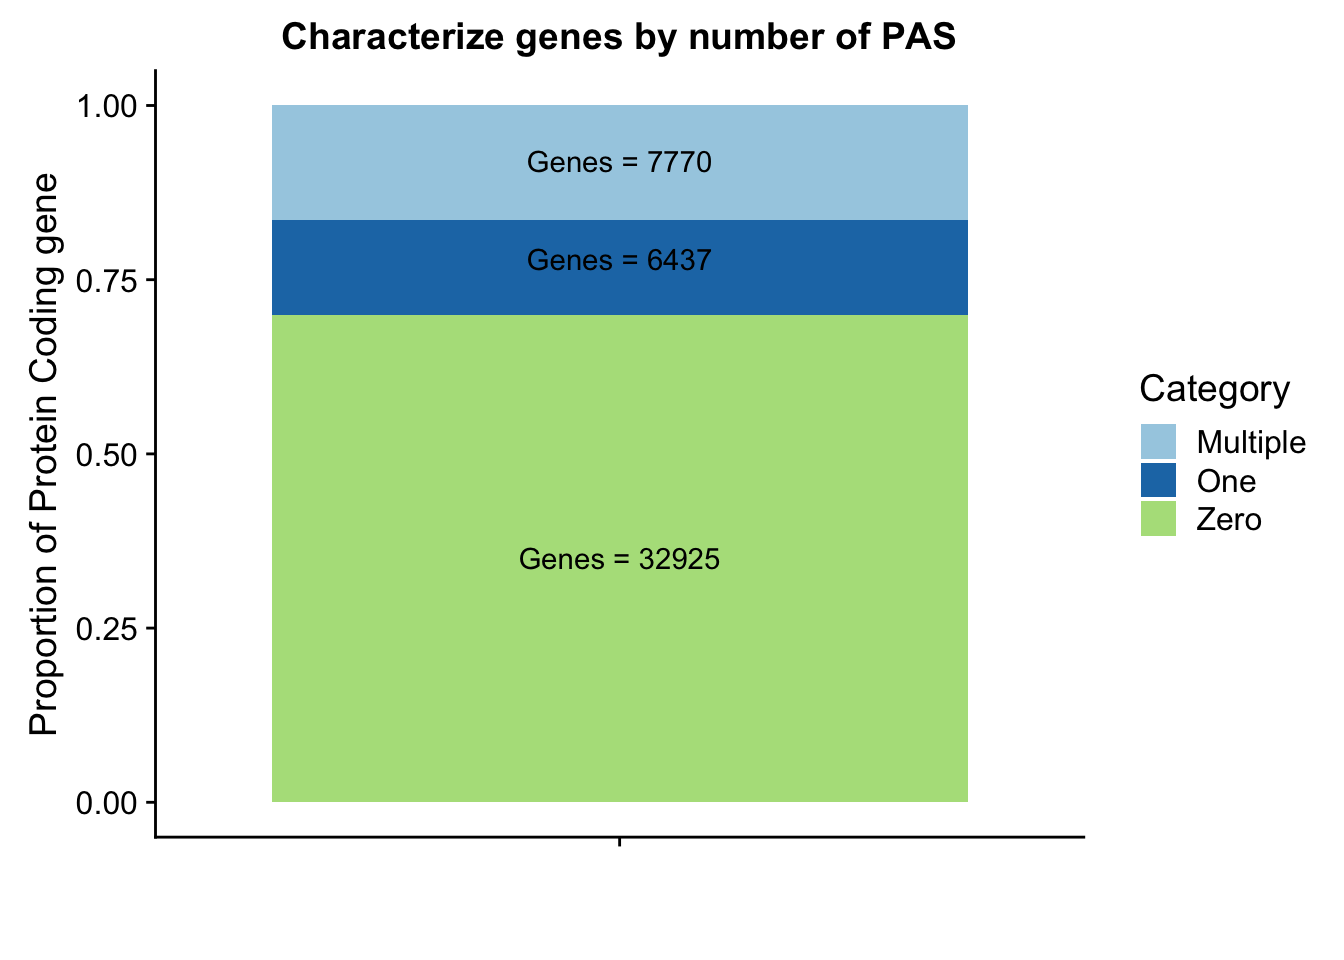
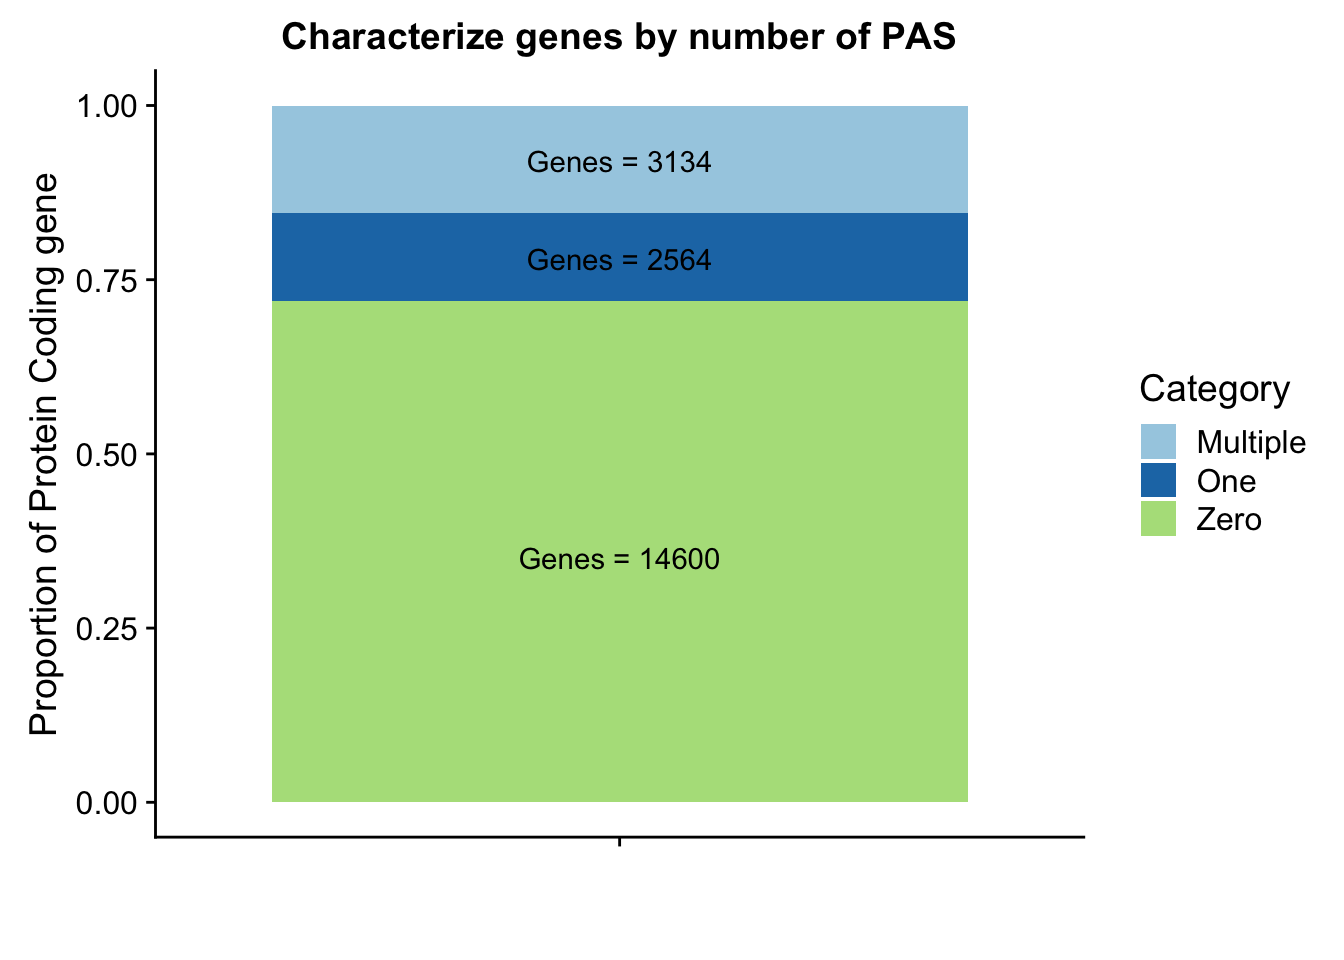
Build site.

diff --git a/docs/dataprocfigures.html b/docs/dataprocfigures.html
@@ -322,7 +322,7 @@ div.section {
 </div>
 
 
-<p><strong>Last updated:</strong> 2018-08-28</p>
+<p><strong>Last updated:</strong> 2018-08-29</p>
 <strong>workflowr checks:</strong> <small>(Click a bullet for more information)</small>
 <ul>
 <li>
@@ -346,7 +346,7 @@ div.section {
 </details>
 </li>
 <li>
-<p><details> <summary> <strong style="color:blue;">✔</strong> <strong>Repository version:</strong> <a href="https://github.com/brimittleman/threeprimeseq/tree/fa818a13d8591ac31fd9f6c63a86af3af565def7" target="_blank">fa818a1</a> </summary></p>
+<p><details> <summary> <strong style="color:blue;">✔</strong> <strong>Repository version:</strong> <a href="https://github.com/brimittleman/threeprimeseq/tree/6b818cbdefc857eb57e9a522483fa63b60b7fb60" target="_blank">6b818cb</a> </summary></p>
 Great! You are using Git for version control. Tracking code development and connecting the code version to the results is critical for reproducibility. The version displayed above was the version of the Git repository at the time these results were generated. <br><br> Note that you need to be careful to ensure that all relevant files for the analysis have been committed to Git prior to generating the results (you can use <code>wflow_publish</code> or <code>wflow_git_commit</code>). workflowr only checks the R Markdown file, but you know if there are other scripts or data files that it depends on. Below is the status of the Git repository when the results were generated:
 <pre><code>
 Ignored files:
@@ -439,6 +439,40 @@ Message
 Rmd
 </td>
 <td style="text-align:left;">
+<a href="https://github.com/brimittleman/threeprimeseq/blob/6b818cbdefc857eb57e9a522483fa63b60b7fb60/analysis/dataprocfigures.Rmd" target="_blank">6b818cb</a>
+</td>
+<td style="text-align:left;">
+Briana Mittleman
+</td>
+<td style="text-align:left;">
+2018-08-29
+</td>
+<td style="text-align:left;">
+try gencode anno
+</td>
+</tr>
+<tr>
+<td style="text-align:left;">
+html
+</td>
+<td style="text-align:left;">
+<a href="https://cdn.rawgit.com/brimittleman/threeprimeseq/c6dc97bf8c0353ab9179b44a1f9ed8210f4c0adb/docs/dataprocfigures.html" target="_blank">c6dc97b</a>
+</td>
+<td style="text-align:left;">
+brimittleman
+</td>
+<td style="text-align:left;">
+2018-08-28
+</td>
+<td style="text-align:left;">
+Build site.
+</td>
+</tr>
+<tr>
+<td style="text-align:left;">
+Rmd
+</td>
+<td style="text-align:left;">
 <a href="https://github.com/brimittleman/threeprimeseq/blob/fa818a13d8591ac31fd9f6c63a86af3af565def7/analysis/dataprocfigures.Rmd" target="_blank">fa818a1</a>
 </td>
 <td style="text-align:left;">
@@ -473,7 +507,7 @@ first processing figure
 
 
 
-bedtools map -c 4 -s -o count_distinct -a /project2/gilad/briana/genome_anotation_data/ncbiRefSeq_sm_noChr.sort.mRNA.bed -b   &gt; /project2/gilad/briana/threeprimeseq/data/peakPerRefseqGene/filtered_APApeaks_perRefseqGene.txt 
+bedtools map -c 4 -s -o count_distinct -a /project2/gilad/briana/genome_anotation_data/refseq.ProteinCoding.fullchroms.bed -b /project2/gilad/briana/threeprimeseq/data/mergedPeaks_comb/filtered_APApeaks_merged_allchrom.named.fixed.bed  &gt; /project2/gilad/briana/threeprimeseq/data/peakPerRefseqGene/filtered_APApeaks_perRefseqGene.txt 
 </code></pre>
 <pre class="r"><code>library(tidyverse)</code></pre>
 <pre><code>── Attaching packages ──────────────────────────────────────────────────────────────────── tidyverse 1.2.1 ──</code></pre>
@@ -516,6 +550,121 @@ lab3=paste(&quot;Genes =&quot;, sum(peakpergene$multPeaks), sep=&quot; &quot;)
 genepeakplot=ggplot(perPeakdf, aes(x=&quot;&quot;, y=perPeak, fill=Category)) + geom_bar(stat=&quot;identity&quot;)+ labs(title=&quot;Characterize genes by number of PAS&quot;, y=&quot;Proportion of Protein Coding gene&quot;, x=&quot;&quot;)+ scale_fill_brewer(palette=&quot;Paired&quot;) + coord_cartesian(ylim=c(0,1)) + annotate(&quot;text&quot;, x=&quot;&quot;, y= .35, label=lab1) + annotate(&quot;text&quot;, x=&quot;&quot;, y= .78, label=lab2) + annotate(&quot;text&quot;, x=&quot;&quot;, y= .92, label=lab3)
 genepeakplot</code></pre>
 <p><img src="figure/dataprocfigures.Rmd/unnamed-chunk-5-1.png" width="672" style="display: block; margin: auto;" /></p>
+<details> <summary><em>Expand here to see past versions of unnamed-chunk-5-1.png:</em></summary>
+<table style="border-collapse:separate; border-spacing:5px;">
+<thead>
+<tr>
+<th style="text-align:left;">
+Version
+</th>
+<th style="text-align:left;">
+Author
+</th>
+<th style="text-align:left;">
+Date
+</th>
+</tr>
+</thead>
+<tbody>
+<tr>
+<td style="text-align:left;">
+<a href="https://github.com/brimittleman/threeprimeseq/blob/c6dc97bf8c0353ab9179b44a1f9ed8210f4c0adb/docs/figure/dataprocfigures.Rmd/unnamed-chunk-5-1.png" target="_blank">c6dc97b</a>
+</td>
+<td style="text-align:left;">
+brimittleman
+</td>
+<td style="text-align:left;">
+2018-08-28
+</td>
+</tr>
+</tbody>
+</table>
+<p></details></p>
+<p>This includes for than 1 isoform for different genes. I am going to go back to the original refseq file and resegment it. Column 13 is the gene name. Column 2 needs to start with NM because that is mRNA.</p>
+<pre class="bash"><code>grep  &quot;NM&quot; ncbiRefSeq.txt | awk &#39;{print $3 &quot;\t&quot; $5 &quot;\t&quot; $6 &quot;\t&quot; $2 &quot;\t&quot; $13 &quot;\t&quot; $4}&#39; &gt; ncbiRefSeq.mRNA.named.bed</code></pre>
+<p>I can write a script that writes only the longest isoform for each gene.</p>
+<pre class="bash"><code>
+outfile=open(&quot;refseq.ProteinCoding.bed&quot;, &quot;w&quot;)
+
+
+
+
+infile=open(&quot;ncbiRefSeq.mRNA.named.bed&quot;, &quot;r&quot;)
+
+lines=infile.readlines()
+lot_lines=len(lines)
+for n,ln in enumerate(lines):
+    chrom, start, end, mRNA, gene, strand = ln.split()
+    #if first line
+    if n == 0:
+        #first line condition
+        SE_list=[]
+        cur_gene=gene
+        SE_list.append(int(start))   
+        SE_list.append(int(end)) 
+    elif n == lot_lines-1:
+        #last line condition
+        if gene == cur_gene:
+            SE_list.append(int(start))   
+            SE_list.append(int(end))
+            SE_list.sort()
+            outfile.write(&quot;%s\t%d\t%d\t%s\t.\t%s\n&quot;%(chrom, SE_list[0], SE_list[-1], gene, strand))
+        else: 
+           outfile.write(&quot;%s\t%d\t%d\t%s\t.\t%s\n&quot;%(chrom, int(start), int(end), gene, strand))
+    elif gene == cur_gene:
+        SE_list.append(int(start))   
+        SE_list.append(int(end))
+    elif gene != cur_gene:
+        #write out the last line but with the start end from the SE list
+        prevline=lines[n-1]
+        chrom2, start2, end2, mRNA2, gene2, strand2 = prevline.split()
+        outfile.write(&quot;%s\t%d\t%d\t%s\t.\t%s\n&quot;%(chrom2, SE_list[0], SE_list[-1], gene2, strand2))
+        cur_gene=gene
+        SE_list=[int(start), int(end)]
+
+
+outfile.close()
+</code></pre>
+<p>I can check this by maknig sure there is 1 line for all of the unique names in the in file.</p>
+<pre class="bash"><code>awk &#39;{print $5}&#39; ncbiRefSeq.mRNA.named.bed | sort | uniq | wc -l
+#19243
+wc -l refseq.ProteinCoding.bed 
+#20298
+sed &#39;s/^chr//&#39; refseq.ProteinCoding.bed &gt; refseq.ProteinCoding.noCHR.bed</code></pre>
+<p>There is still a problem with the script. The problem is when the same gene name is on extra haplotypes. I could remove all of the lines in the file that have _ in the first column. These are on contigs or specfic haplotypes. They will not map to our peaks anyway. I also need to remove the chr.</p>
+<p>This still seems lower than previos APA estimates. I had used gencode estimates before. I am gonig to run this analysis again with those gene.</p>
+<pre class="bash"><code>#!/bin/bash
+
+#SBATCH --job-name=gencode_countdistinct
+#SBATCH --account=pi-yangili1
+#SBATCH --time=24:00:00
+#SBATCH --output=gencode_countdistinct.out
+#SBATCH --error=gencode_countdistinct.err
+#SBATCH --partition=broadwl
+#SBATCH --mem=12G
+#SBATCH --mail-type=END
+
+
+
+bedtools map -c 4 -s -o count_distinct -a /project2/gilad/briana/genome_anotation_data/gencode.v19.annotation.proteincodinggene.sort.bed   -b /project2/gilad/briana/threeprimeseq/data/mergedPeaks_comb/filtered_APApeaks_merged_allchrom.named.fixed.bed  &gt;
+</code></pre>
+<pre class="r"><code>Gpeakpergene=read.table(&quot;../data/peakPerRefSeqGene/filtered_APApeaks_perGencodeGene.txt&quot;, stringsAsFactors = F, header = F, col.names = names) %&gt;% mutate(onePeak=ifelse(numPeaks==1, 1, 0 )) %&gt;%  mutate(multPeaks=ifelse(numPeaks &gt; 1, 1, 0 ))</code></pre>
+<pre class="r"><code>Ggenes1peak=sum(Gpeakpergene$onePeak)/nrow(Gpeakpergene) 
+GgenesMultpeak=sum(Gpeakpergene$multPeaks)/nrow(Gpeakpergene)
+Ggenes0peak= 1- Ggenes1peak - GgenesMultpeak
+
+GperPeak= c(round(Ggenes0peak,digits = 3), round(Ggenes1peak,digits = 3),round(GgenesMultpeak, digits = 3))
+
+GperPeakdf=as.data.frame(cbind(Category,as.numeric(GperPeak)))</code></pre>
+<p>Plot these proportions:</p>
+<pre class="r"><code>Glab1=paste(&quot;Genes =&quot;, Ggenes0peak*nrow(Gpeakpergene), sep=&quot; &quot;)
+Glab2=paste(&quot;Genes =&quot;, sum(Gpeakpergene$onePeak), sep=&quot; &quot;)
+Glab3=paste(&quot;Genes =&quot;, sum(Gpeakpergene$multPeaks), sep=&quot; &quot;)
+
+Ggenepeakplot=ggplot(GperPeakdf, aes(x=&quot;&quot;, y=perPeak, fill=Category)) + geom_bar(stat=&quot;identity&quot;)+ labs(title=&quot;Characterize Gencode genes by number of PAS&quot;, y=&quot;Proportion of Protein Coding gene&quot;, x=&quot;&quot;)+ scale_fill_brewer(palette=&quot;Paired&quot;) + coord_cartesian(ylim=c(0,1)) + annotate(&quot;text&quot;, x=&quot;&quot;, y= .35, label=Glab1) + annotate(&quot;text&quot;, x=&quot;&quot;, y= .78, label=Glab2) + annotate(&quot;text&quot;, x=&quot;&quot;, y= .92, label=Glab3)
+Ggenepeakplot</code></pre>
+<p><img src="figure/dataprocfigures.Rmd/unnamed-chunk-12-1.png" width="672" style="display: block; margin: auto;" /></p>
+<p>These results are still lower than expected. This is because all of my previous analysis mapped the genes to the peaks as which were closest in the upstream direction. Here I am saying the peak must overlap the gene.</p>
 </div>
 <div id="session-information" class="section level2">
 <h2>Session information</h2>
